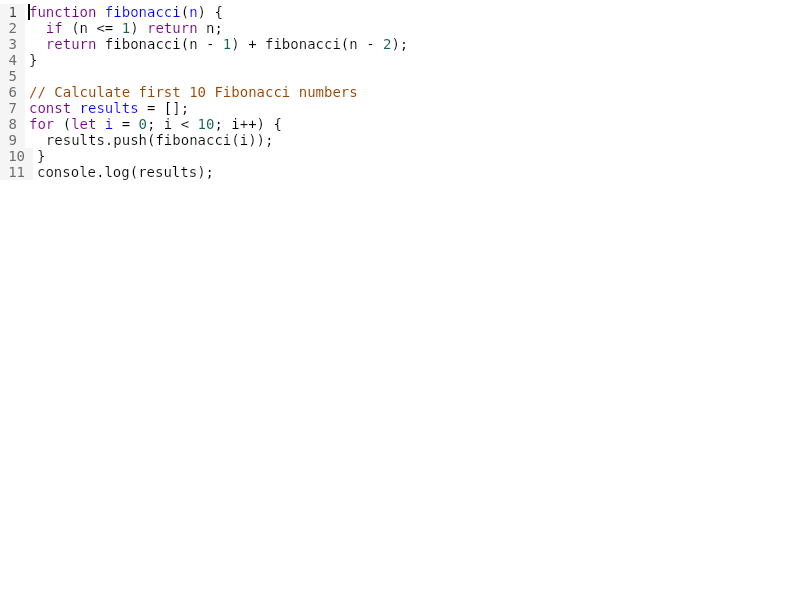
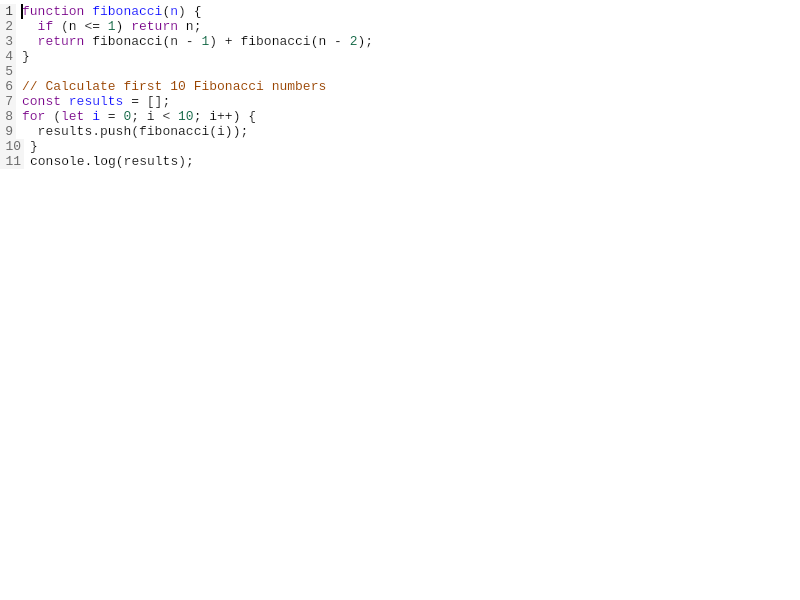
Match CodeMirror font size (13px) and padding values

Changed region(s): [[0.0, 0.0, 0.5, 0.3]]

diff --git a/view/src/commonMain/kotlin/com/monkopedia/kodemirror/view/EditorTheme.kt b/view/src/commonMain/kotlin/com/monkopedia/kodemirror/view/EditorTheme.kt
@@ -56,8 +56,8 @@ data class EditorTheme(
     /** Default text style for content. */
     val contentTextStyle: TextStyle = TextStyle(
         fontFamily = editorFontFamily,
-        fontSize = 14.sp,
-        lineHeight = (14 * 1.4).sp,
+        fontSize = 13.sp,
+        lineHeight = (13 * 1.4).sp,
         color = Color(0xFFABB2BF)
     ),
     /** Whether this is a dark theme (affects some rendering decisions). */
@@ -79,8 +79,8 @@ val lightEditorTheme: EditorTheme = EditorTheme(
     gutterActiveForeground = Color(0xFF333333),
     contentTextStyle = TextStyle(
         fontFamily = editorFontFamily,
-        fontSize = 14.sp,
-        lineHeight = (14 * 1.4).sp,
+        fontSize = 13.sp,
+        lineHeight = (13 * 1.4).sp,
         color = Color(0xFF000000)
     ),
     dark = false

diff --git a/view/src/commonMain/kotlin/com/monkopedia/kodemirror/view/EditorViewComposable.kt b/view/src/commonMain/kotlin/com/monkopedia/kodemirror/view/EditorViewComposable.kt
@@ -161,7 +161,7 @@ fun EditorView(state: EditorState, onUpdate: (Transaction) -> Unit, modifier: Mo
                                 Box(
                                     modifier = Modifier
                                         .weight(1f)
-                                        .padding(start = 4.dp)
+                                        .padding(start = 6.dp, end = 2.dp)
                                         .drawSelectionOverlay(
                                             state,
                                             item.from,

diff --git a/view/src/commonMain/kotlin/com/monkopedia/kodemirror/view/Gutter.kt b/view/src/commonMain/kotlin/com/monkopedia/kodemirror/view/Gutter.kt
@@ -80,7 +80,7 @@ fun GutterView(view: EditorView, lineNumber: Int, modifier: Modifier = Modifier)
     Box(
         modifier = modifier
             .background(theme.gutterBackground)
-            .padding(horizontal = 8.dp),
+            .padding(start = 5.dp, end = 3.dp),
         contentAlignment = Alignment.CenterEnd
     ) {
         BasicText(
